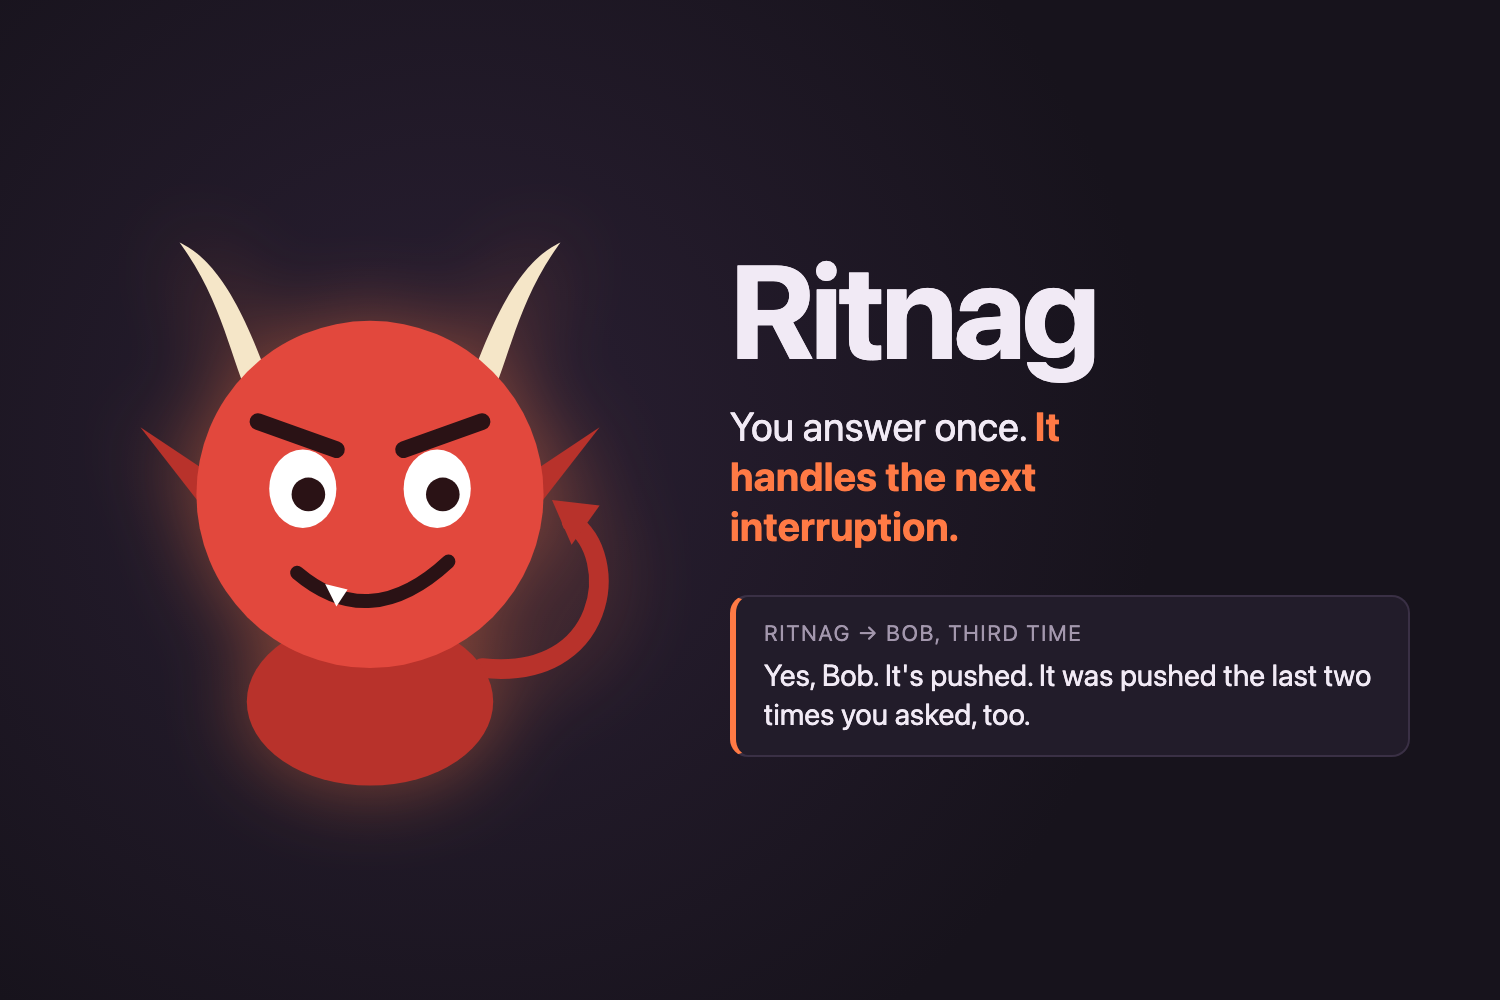
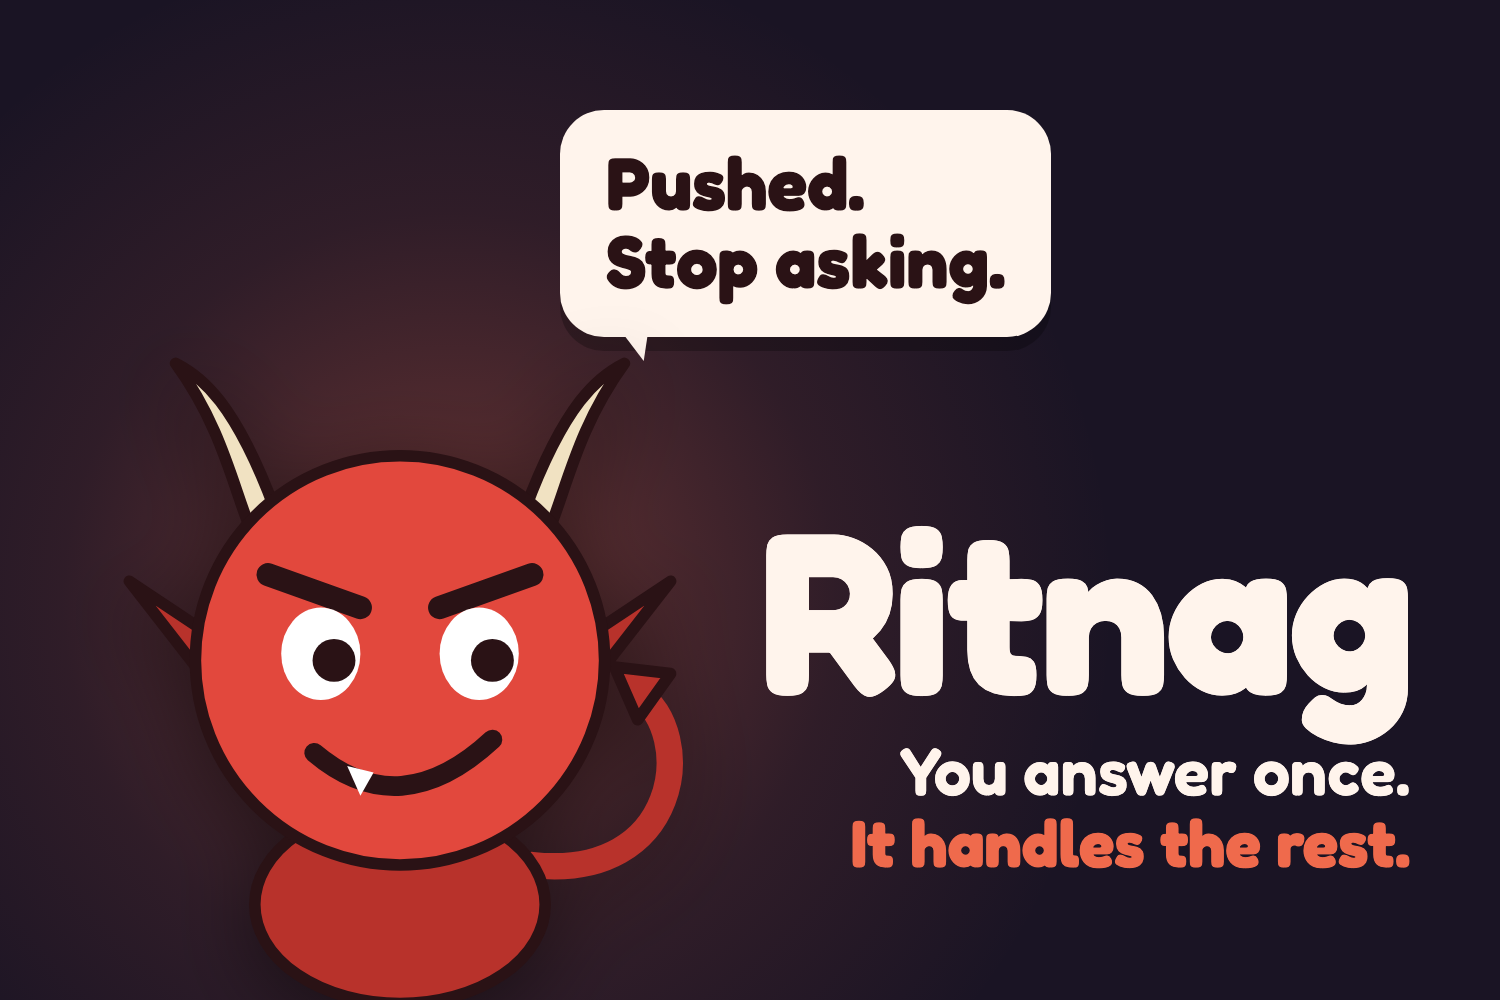
docs: redesign the Devpost cover after past Cal Hacks winners
Mascot-led like GhostWriter and SnackSnap (2nd and 3rd overall at Cal Hacks
11.0): the imp large with a thick ink outline, a chunky rounded wordmark,
a two-line tagline and one short roast in a speech bubble, all readable at
Devpost's 333x222 gallery size. Drops the old bubble that named a person and
a repeat count, which the anonymity rules no longer allow.

Changed region(s): [[0.092, 0.093, 0.9507, 1.0]]

diff --git a/assets/cover.html b/assets/cover.html
@@ -1,21 +1,41 @@
-<!doctype html><html><head><meta charset="utf-8"><style>
-:root{--bg:#17131c;--panel:#221c2a;--line:#3a3045;--text:#f1eaf5;--muted:#a397ad;--accent:#ff7a45;--imp-skin:#e2483d;--imp-skin-dark:#b8322b;--imp-horn:#f5e6c8;--imp-ink:#2a1215}
-html,body{margin:0;width:1500px;height:1000px;background:radial-gradient(circle at 30% 45%,#2a1f33 0%,var(--bg) 60%);font-family:-apple-system,BlinkMacSystemFont,"Inter","Segoe UI",sans-serif;color:var(--text);overflow:hidden}
-.wrap{display:grid;grid-template-columns:600px 1fr;align-items:center;height:100%;padding:0 90px;box-sizing:border-box;gap:40px}
-svg{width:560px;filter:drop-shadow(0 0 40px rgba(255,122,69,.45))}
-h1{font-size:132px;margin:0;letter-spacing:-.03em;line-height:1}
-.tag{font-size:40px;line-height:1.25;color:var(--text);margin:26px 0 44px;max-width:16ch}
+<!doctype html><html><head><meta charset="utf-8">
+<!-- Devpost cover, 1500x1000 (3:2). Shown at ~333x222 in the gallery: one mascot, few big words. -->
+<link href="https://fonts.googleapis.com/css2?family=Fredoka:wght@600;700&display=block" rel="stylesheet">
+<style>
+:root{--bg:#1a1424;--text:#fff4ec;--accent:#ef6a4c;--ink:#2a1215;--imp-skin:#e2483d;--imp-skin-dark:#b8322b;--imp-horn:#f1e2c2;--bubble:#fff4ec}
+html,body{margin:0;width:1500px;height:1000px;overflow:hidden}
+.frame{position:relative;width:1500px;height:1000px;overflow:hidden;font-family:"Fredoka",system-ui,sans-serif;color:var(--text);
+  background:radial-gradient(circle at 30% 60%,rgb(239 106 76 / .38) 0%,rgb(239 106 76 / .10) 32%,transparent 55%),var(--bg)}
+.imp{position:absolute;left:70px;bottom:-30px;width:660px;filter:drop-shadow(0 18px 40px rgb(0 0 0 / .45))}
+.bubble{position:absolute;left:560px;top:110px;background:var(--bubble);color:var(--ink);font-weight:700;font-size:74px;line-height:1.05;
+  padding:34px 46px 38px;border-radius:44px;box-shadow:0 14px 0 rgb(0 0 0 / .25)}
+.bubble::after{content:"";position:absolute;left:70px;bottom:-54px;border:30px solid transparent;border-top:44px solid var(--bubble);border-left:10px solid transparent;transform:skewX(28deg)}
+.words{position:absolute;right:90px;bottom:120px;text-align:right}
+h1{margin:0;font-size:230px;line-height:.9;letter-spacing:-.02em;font-weight:700}
+.tag{margin:22px 0 0;font-size:66px;line-height:1.1;font-weight:600}
 .tag b{color:var(--accent);font-weight:700}
-.bubble{background:var(--panel);border:2px solid var(--line);border-left:6px solid var(--accent);border-radius:18px;padding:22px 28px;font-size:30px;line-height:1.3;max-width:640px}
-.who{font-size:22px;color:var(--muted);margin-bottom:8px;text-transform:uppercase;letter-spacing:.08em}
-</style></head><body><div class="wrap">
-<svg viewBox="0 0 200 220"><g><path d="M140 170 C 185 175, 190 130, 172 118" fill="none" stroke="var(--imp-skin-dark)" stroke-width="7" stroke-linecap="round"/><path d="M165 110 L 182 112 L 172 126 Z" fill="var(--imp-skin-dark)"/></g>
-<g><path d="M62 62 C 50 30, 40 22, 32 18 C 48 40, 50 60, 58 76 Z" fill="var(--imp-horn)"/><path d="M138 62 C 150 30, 160 22, 168 18 C 152 40, 150 60, 142 76 Z" fill="var(--imp-horn)"/>
-<path d="M42 100 L 18 84 L 46 120 Z" fill="var(--imp-skin-dark)"/><path d="M158 100 L 182 84 L 154 120 Z" fill="var(--imp-skin-dark)"/>
-<ellipse cx="100" cy="182" rx="44" ry="30" fill="var(--imp-skin-dark)"/><circle cx="100" cy="108" r="62" fill="var(--imp-skin)"/>
-<path d="M60 82 L 88 92" stroke="var(--imp-ink)" stroke-width="6" stroke-linecap="round"/><path d="M140 82 L 112 92" stroke="var(--imp-ink)" stroke-width="6" stroke-linecap="round"/>
-<ellipse cx="76" cy="106" rx="12" ry="14" fill="#fff"/><ellipse cx="124" cy="106" rx="12" ry="14" fill="#fff"/><circle cx="78" cy="108" r="6" fill="var(--imp-ink)"/><circle cx="126" cy="108" r="6" fill="var(--imp-ink)"/>
-<path d="M74 136 Q 100 158, 128 132" fill="none" stroke="var(--imp-ink)" stroke-width="5" stroke-linecap="round"/><path d="M84 140 L 88 148 L 92 142 Z" fill="#fff"/></g></svg>
-<div><h1>Ritnag</h1><p class="tag">You answer once. <b>It handles the next interruption.</b></p>
-<div class="bubble"><div class="who">Ritnag → Bob, third time</div>Yes, Bob. It's pushed. It was pushed the last two times you asked, too.</div></div>
+</style></head><body><div class="frame">
+<div class="bubble">Pushed.<br>Stop asking.</div>
+<svg class="imp" viewBox="0 0 200 220" role="img" aria-label="Ritnag, a red imp">
+  <g stroke="var(--ink)" stroke-width="3.5" stroke-linejoin="round">
+    <path d="M140 170 C 185 175, 190 130, 172 118" fill="none" stroke="var(--imp-skin-dark)" stroke-width="8" stroke-linecap="round"/>
+    <path d="M165 110 L 182 112 L 172 126 Z" fill="var(--imp-skin-dark)"/>
+    <path d="M62 62 C 50 30, 40 22, 32 18 C 48 40, 50 60, 58 76 Z" fill="var(--imp-horn)"/>
+    <path d="M138 62 C 150 30, 160 22, 168 18 C 152 40, 150 60, 142 76 Z" fill="var(--imp-horn)"/>
+    <path d="M42 100 L 18 84 L 46 120 Z" fill="var(--imp-skin-dark)"/>
+    <path d="M158 100 L 182 84 L 154 120 Z" fill="var(--imp-skin-dark)"/>
+    <ellipse cx="100" cy="182" rx="44" ry="30" fill="var(--imp-skin-dark)"/>
+    <circle cx="100" cy="108" r="62" fill="var(--imp-skin)"/>
+  </g>
+  <path d="M60 82 L 88 92" stroke="var(--ink)" stroke-width="7" stroke-linecap="round"/>
+  <path d="M140 82 L 112 92" stroke="var(--ink)" stroke-width="7" stroke-linecap="round"/>
+  <ellipse cx="76" cy="106" rx="12" ry="14" fill="#fff"/><ellipse cx="124" cy="106" rx="12" ry="14" fill="#fff"/>
+  <circle cx="80" cy="108" r="6.5" fill="var(--ink)"/><circle cx="128" cy="108" r="6.5" fill="var(--ink)"/>
+  <path d="M74 136 Q 100 158, 128 132" fill="none" stroke="var(--ink)" stroke-width="6" stroke-linecap="round"/>
+  <path d="M84 140 L 88 149 L 92 142 Z" fill="#fff"/>
+</svg>
+<div class="words">
+  <h1>Ritnag</h1>
+  <p class="tag">You answer once.<br><b>It handles the rest.</b></p>
+</div>
 </div></body></html>
